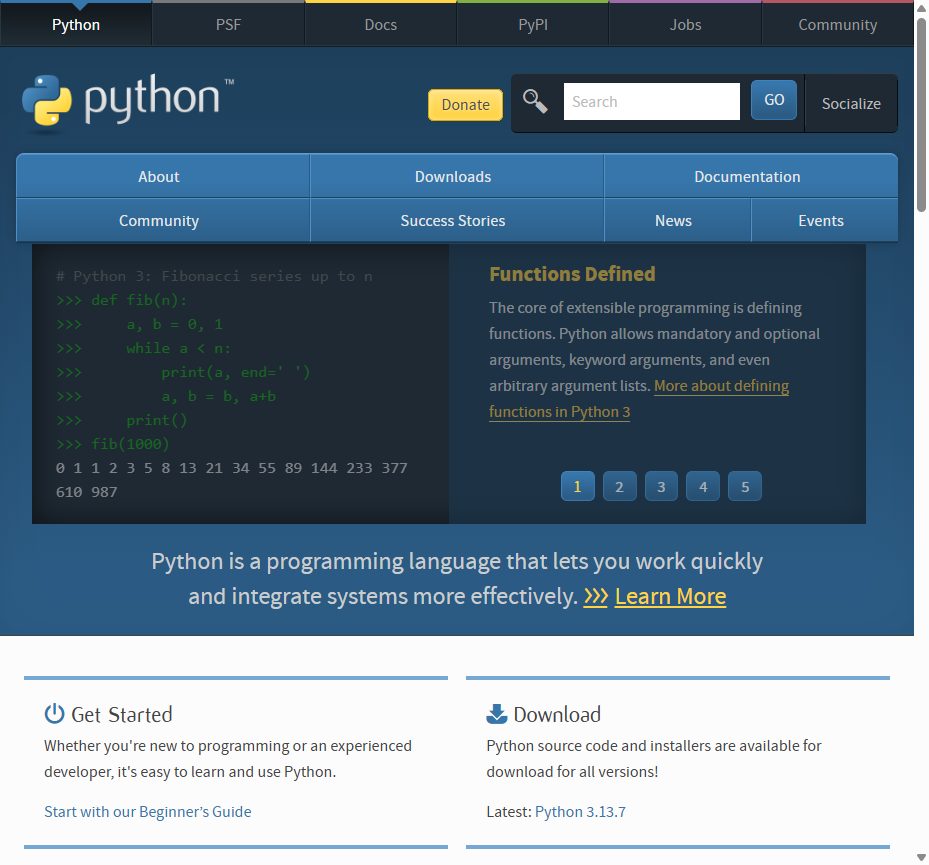
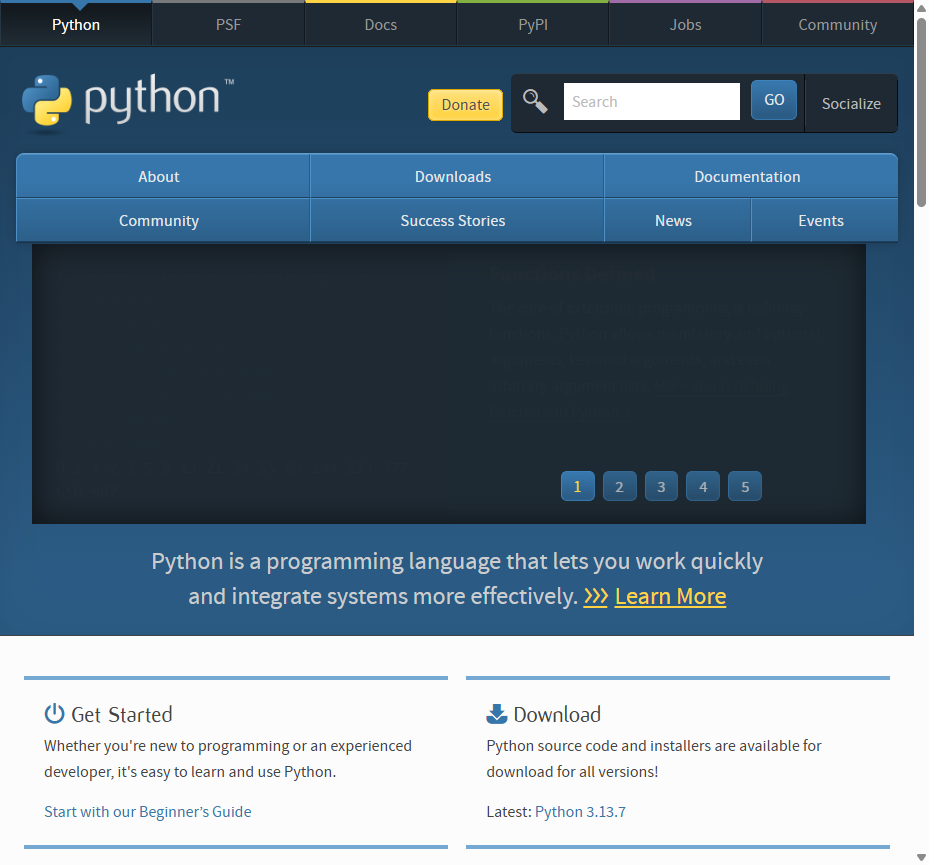
aa

diff --git a/chrome_screenshot_full.py b/chrome_screenshot_full.py
@@ -1,0 +1,35 @@
+from selenium import webdriver
+
+url = 'https://python.org'
+save_file = 'screenshot_full.png'
+
+def screenshot_full(url,save_file):
+    #ページサイズ取得
+    w,h = get_page_size(url)
+    #指定サイズでchromeを起動しキャプチャ
+    screenshot_size(url,save_file,w,h)
+
+def  get_page_size(url):
+    driver = webdriver.Chrome()
+    driver.get(url)
+    w = driver.execute_script("return document.body.scrollWidth;")
+    h = driver.execute_script("return document.body.scrollHeight;")
+    
+    driver.close()
+    print("page_size = ", w, h)
+    return (w,h)
+
+def screenshot_size(url,save_file,w,h):
+    options = webdriver.ChromeOptions()
+    options.add_argument("--headless")
+    #画面サイズ指定
+    win_size = 'window-size='+str(w)+','+str(h)
+    options.add_argument(win_size)
+    
+    cap_driver = webdriver.Chrome(options=options)
+    cap_driver.get(url)
+    cap_driver.save_screenshot(save_file)
+    cap_driver.close()
+
+if __name__ == '__main__':
+    screenshot_full(url, save_file)

diff --git a/src/chrome_screenshot_full.py b/src/chrome_screenshot_full.py
@@ -1,0 +1,34 @@
+from selenium import webdriver
+
+url = 'https://python.org'
+save_file = 'screenshot_full.png'
+
+def screenshot_full(url,save_file):
+    #ページサイズ取得
+    w,h = get_page_size(url)
+    #指定サイズでchromeを起動しキャプチャ
+    screenshot_size(url,save_file,w,h)
+
+def  get_page_size(url):
+    driver = webdriver.Chrome()
+    driver.get(url)
+    w = driver.execute_script("return document.body.scrollWidth;")
+    h = driver.execute_script("return document.body.scrollHeight;")
+    driver.close()
+    print("page_size = ", w, h)
+    return (w,h)
+
+def screenshot_size(url,save_file,w,h):
+    options = webdriver.ChromeOptions()
+    options.add_argument("--headless")
+    #画面サイズ指定
+    win_size = 'window-size='+str(w)+','+str(h)
+    options.add_argument(win_size)
+    
+    cap_driver = webdriver.Chrome(options=options)
+    cap_driver.get(url)
+    cap_driver.save_screenshot(save_file)
+    cap_driver.close()
+
+if __name__ == '__main__':
+    screenshot_full(url, save_file)

diff --git a/src/headless.py b/src/headless.py
@@ -1,0 +1,14 @@
+import time
+from selenium import webdriver
+from selenium.webdriver.common.by import By
+
+options = webdriver.ChromeOptions()
+options.add_argument('--headless=new')
+
+with webdriver.Chrome(options=options) as driver:
+    driver.get('https://uta.pw/sakusibbs/users.php?user_id=1')
+    a_list = driver.find_elements(By.CSS_SELECTOR, "ul#mmlist li a")
+    for a in a_list:
+        print('■',a.text)
+        print(('→',a.get_attribute('href')))
+        

diff --git a/src/chrome_screenshot.py b/src/chrome_screenshot.py
@@ -1,6 +1,7 @@
 from selenium import webdriver
+import time
 
 with webdriver.Chrome() as driver:
     driver.get('https://python.org')
     driver.save_screenshot('screenshot.png')
-    
+    time.sleep(10)
